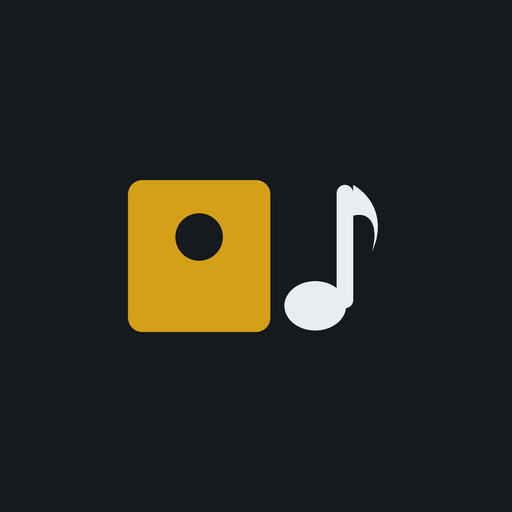
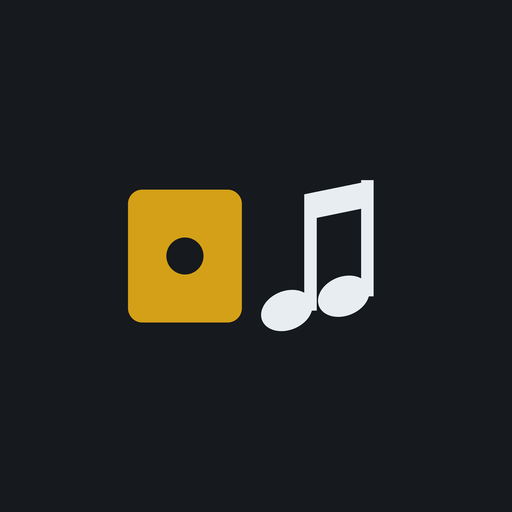
A note that reads as a note, and no update bar where it cannot update
TWO FROM SCREENSHOTS.

THE ICON. The single quaver's flag is a hairline curl, and at the ~12dp
a home-screen icon gives that note it thinned to nothing and left a stem
with a blob on it -- "a funny looking music note symbol". It is a beamed
pair now: a beam is a solid bar that survives the size, and two heads
say "music" where one says "a shape".

The heads also lean with their right end up, because every notehead in
engraved music does. The old one was upright, which looks wrong without
looking obviously wrong -- and that is most of why it read oddly at any
size. android:rotation is clockwise where PIL's is not, so the vector
says -22 where the script says 22.

Both were rendered and looked at, at 512, at the 60px a home screen
gives them, and at 32. That is the only check that means anything for a
picture, and it is what chose the beam over the flag: side by side at
60px the flag was gone and the beam was not.

THE UPDATE BAR now appears only on the device running the app. The APK
installs THERE. A page open on an iPad across the house is looking at
software it cannot replace: the button asked for a PIN and then offered
to update a machine in another room, and without the PIN it did nothing
at all except print an error. /api/update/status carries onDevice, taken
from the socket address like every other trust decision here, and the
page hides the whole bar on it -- which also stops a LAN page spending a
request on GitHub for an answer it was never going to draw.
[…]

Changed region(s): [[0.25, 0.3438, 0.75, 0.6562], [0.3125, 0.4062, 0.4375, 0.5625]]

diff --git a/app/src/main/assets/web/app.js b/app/src/main/assets/web/app.js
@@ -904,11 +904,10 @@
    * everything up to that point is :core, and tested there. This is only the
    * bar that reports it.
    *
-   * WHO CHECKS. The check is a write route — it reaches out to GitHub — so it
-   * is gated exactly like adding a webhook: the device's own WebView is trusted
-   * without a PIN, anything else on the network needs one. So the device checks
-   * when its page opens, and every other device reads what it found. An iPad
-   * with the PIN can still ask for a fresh check.
+   * WHERE IT SHOWS. On the device running the app, and nowhere else. The APK
+   * installs HERE; a page open on an iPad is looking at software it cannot
+   * replace, and the button there asked for a PIN and then updated a machine
+   * in another room. /api/update/status says which kind of page this is.
    *
    * THIS IS NOT A POLL. One request when somebody opens the page, in the same
    * spirit as asking a speaker what is playing only when there is somebody
@@ -918,12 +917,19 @@
   async function checkForUpdate() {
     if (!updateEl) return;
     try {
-      // Ask the device to look only if this browser is allowed to. Elsewhere,
-      // read whatever the device found last.
-      if (setup.mayConfigure) {
-        await fetch("/api/update/check", { method: "POST", cache: "no-store" });
+      // ONLY ON THE DEVICE ITSELF. The APK installs here, on the machine
+      // running the app — so an update bar on an iPad across the house is
+      // offering to replace software on something else, which is not what
+      // anybody pressing it means. It asked for a PIN and then did nothing
+      // visible, which was worse than not being there.
+      const state = await getJson("/api/update/status");
+      if (!state || !state.onDevice) {
+        updateEl.classList.add("hidden");
+        return;
       }
-      showUpdate(await getJson("/api/update/status"));
+      // Here, and only here, is it worth going out to GitHub to look.
+      const response = await fetch("/api/update/check", { method: "POST", cache: "no-store" });
+      showUpdate(await response.json().catch(() => state));
     } catch (e) {
       // An update notice that cannot be fetched is not worth a line of red on
       // a page whose actual job is drawing a card.

diff --git a/core/src/test/kotlin/com/musicd/sharecard/CardApiTest.kt b/core/src/test/kotlin/com/musicd/sharecard/CardApiTest.kt
@@ -311,6 +311,31 @@ class CardApiTest {
         assertFalse(body.getBoolean("supported"))
     }
 
+    /**
+     * The update bar is drawn only on the device running the app, and this is
+     * the field it hangs on.
+     *
+     * The APK installs HERE. A page open on an iPad across the house is looking
+     * at software it cannot replace — its Update button asked for a PIN and
+     * then offered to update a machine in another room, which is not what
+     * anybody pressing it meant. Reported as "shows the update button, does
+     * nothing".
+     */
+    @Test
+    fun `only the device itself is told an update is its to install`() {
+        val api = apiWithUpdater()
+
+        val onDevice = api.handle(
+            Request("GET", "/api/update/status", emptyMap(), emptyMap(), ByteArray(0), false, "127.0.0.1")
+        )
+        assertTrue(JSONObject(String(onDevice.body, Charsets.UTF_8)).getBoolean("onDevice"))
+
+        val acrossTheHouse = api.handle(
+            Request("GET", "/api/update/status", emptyMap(), emptyMap(), ByteArray(0), false, "192.168.0.50")
+        )
+        assertFalse(JSONObject(String(acrossTheHouse.body, Charsets.UTF_8)).getBoolean("onDevice"))
+    }
+
     @Test
     fun `installing an update needs the PIN from anywhere but the device`() {
         // Adding a webhook is gated because a webhook URL is a credential.

diff --git a/core/src/main/kotlin/com/musicd/sharecard/api/CardApi.kt b/core/src/main/kotlin/com/musicd/sharecard/api/CardApi.kt
@@ -106,7 +106,14 @@ class CardApi(
         // Reading what version is out there changes nothing. Fetching an APK
         // and pointing Android's installer at it changes everything on the
         // device, so both of those are gated exactly like adding a webhook.
-        "/api/update/status" -> updateRoute(request) { Json.obj(it.status()) }
+        "/api/update/status" -> updateRoute(request) {
+            // onDevice is what the page hides the whole update bar on. The
+            // APK installs on THIS device, so a page open on an iPad across
+            // the house has nothing to offer: the button there asked for a PIN
+            // and then updated a machine in another room, which is not what
+            // anybody pressing it meant.
+            Json.obj(it.status().put("onDevice", access.isLoopback(request.remoteAddress)))
+        }
         // POST, not GET, even though the gate would hold either way: a GET that
         // installs software is one a link prefetch or a browser's speculative
         // fetch can fire on its own.

diff --git a/tools/make-icons.py b/tools/make-icons.py
@@ -23,7 +23,11 @@ LABEL = (22, 25, 29, 255)
 NOTE = (232, 237, 242, 255)   # --text
 
 CANVAS = 108.0
-SS = 8  # supersample, then downscale: PIL has no antialiased polygon fill
+SS = 8
+
+# Counter-clockwise, which leans a notehead's right end up. The Android vector
+# writes this as android:rotation="-22", because that one is clockwise.
+HEAD_TILT = 22  # supersample, then downscale: PIL has no antialiased polygon fill
 
 
 def bezier(p0, p1, p2, p3, steps=48):
@@ -49,19 +53,35 @@ def draw(size):
         return [x0 * k, y0 * k, x1 * k, y1 * k]
 
     # The sleeve, and a label so it reads as a record rather than a square.
-    pen.rounded_rectangle(box(27, 38, 57, 70), radius=3 * k, fill=SLEEVE)
-    pen.ellipse(box(37, 45, 47, 55), fill=LABEL)
+    pen.rounded_rectangle(box(27, 40, 51, 68), radius=3 * k, fill=SLEEVE)
+    pen.ellipse(box(35.1, 50.1, 42.9, 57.9), fill=LABEL)
 
-    # The note: head, stem, flag. An eighth note rather than three lines of
-    # text, which is what this said before and what nobody read as anything.
-    pen.ellipse(box(60, 59.3, 73, 69.7), fill=NOTE)
-    pen.rounded_rectangle(box(71, 39, 74.5, 65), radius=1.75 * k, fill=NOTE)
+    # A BEAMED PAIR, not a single quaver with a flag. The flag was tried and
+    # it is a hairline curl: at the ~12px a home-screen icon gives this note it
+    # thinned to nothing and left a stem with a blob on it. A beam is a solid
+    # bar, and two heads say "music" where one says "a shape".
+    #
+    # THE HEADS ARE TILTED. Every notehead in engraved music is an ellipse
+    # leaning with its right end up; an upright one is a shape nobody has seen
+    # on a stave, and that is what made the old one look wrong without being
+    # obviously wrong.
+    for cx, cy in ((60.5, 65.5), (72.5, 62.5)):
+        head = Image.new("RGBA", image.size, (0, 0, 0, 0))
+        ImageDraw.Draw(head).ellipse(box(cx - 5.6, cy - 4.1, cx + 5.6, cy + 4.1), fill=NOTE)
+        image.alpha_composite(head.rotate(HEAD_TILT, resample=Image.BICUBIC,
+                                          center=(cx * k, cy * k)))
+    pen = ImageDraw.Draw(image)
 
-    flag = (
-        bezier((74.5, 39), (79.5, 42), (81, 47.5), (78.5, 53)) +
-        bezier((78.5, 53), (80, 47.5), (78, 44.5), (74.5, 45.5))
+    # Stems rise from the RIGHT of each head, which is where they go on notes
+    # sitting below the middle line.
+    pen.rectangle(box(64.2, 41, 66.8, 65.5), fill=NOTE)
+    pen.rectangle(box(76.2, 38, 78.8, 62.5), fill=NOTE)
+
+    # The beam, sloping with the two heads.
+    pen.polygon(
+        [(x * k, y * k) for x, y in ((64.2, 41), (78.8, 38), (78.8, 43.5), (64.2, 46.5))],
+        fill=NOTE
     )
-    pen.polygon([(x * k, y * k) for x, y in flag], fill=NOTE)
 
     return image.resize((size, size), Image.LANCZOS)
 

diff --git a/CLAUDE.md b/CLAUDE.md
@@ -195,6 +195,15 @@ was simply not there, however carefully the DIDL was parsed.
   version put Save below the fold behind three paragraphs of prose, and a
   settings screen you have to scroll to finish is one people abandon half done.
   Short fields pair across the width; every explanation is one line.
+- **The icon is a BEAMED PAIR, and the notehead tilt is not decoration.** It
+  was three grey dashes (unreadable), then a single quaver whose flag is a
+  hairline curl — at the ~12dp a home-screen icon gives that note, the flag
+  thinned to nothing and left a stem with a blob on it, reported as "a funny
+  looking music note". A beam is a solid bar that survives the size, and two
+  heads say "music" where one says "a shape". The heads lean with their right
+  end up because every notehead in engraved music does; an upright one looks
+  wrong without looking obviously wrong. `android:rotation` is clockwise and
+  PIL's is not, so the vector says -22 where the script says 22.
 - **iOS needs a real PNG icon, and `tools/make-icons.py` draws it.**
   `apple-touch-icon` will not take an SVG or an adaptive icon, and without one
   the Home Screen shows a screenshot or a bare letter. The PNGs in
@@ -477,6 +486,14 @@ was simply not there, however carefully the DIDL was parsed.
   writes `raw.githubusercontent.com/...` and not `github.com/.../raw/...`. The
   app this was ported from carries a comment saying exactly this above a check
   that only tests the scheme; that was fixed here rather than copied.
+- **The update bar is drawn ONLY on the device running the app.** The APK
+  installs there; a page open on an iPad across the house is looking at
+  software it cannot replace, and its Update button asked for a PIN and then
+  offered to update a machine in another room. Reported as "shows the update
+  button, does nothing". `/api/update/status` carries `onDevice` — taken from
+  the socket address, like every other trust decision here — and the page hides
+  the whole bar on it, which also stops a LAN page spending a request on GitHub
+  for an answer it will not draw.
 - **`/api/update/check` and `/api/update/apply` are POST and gated.** Replacing
   the APK on an always-on device in another room is a bigger write than adding a
   webhook, so both go through `Access.mayConfigure` — and both refuse a GET,
